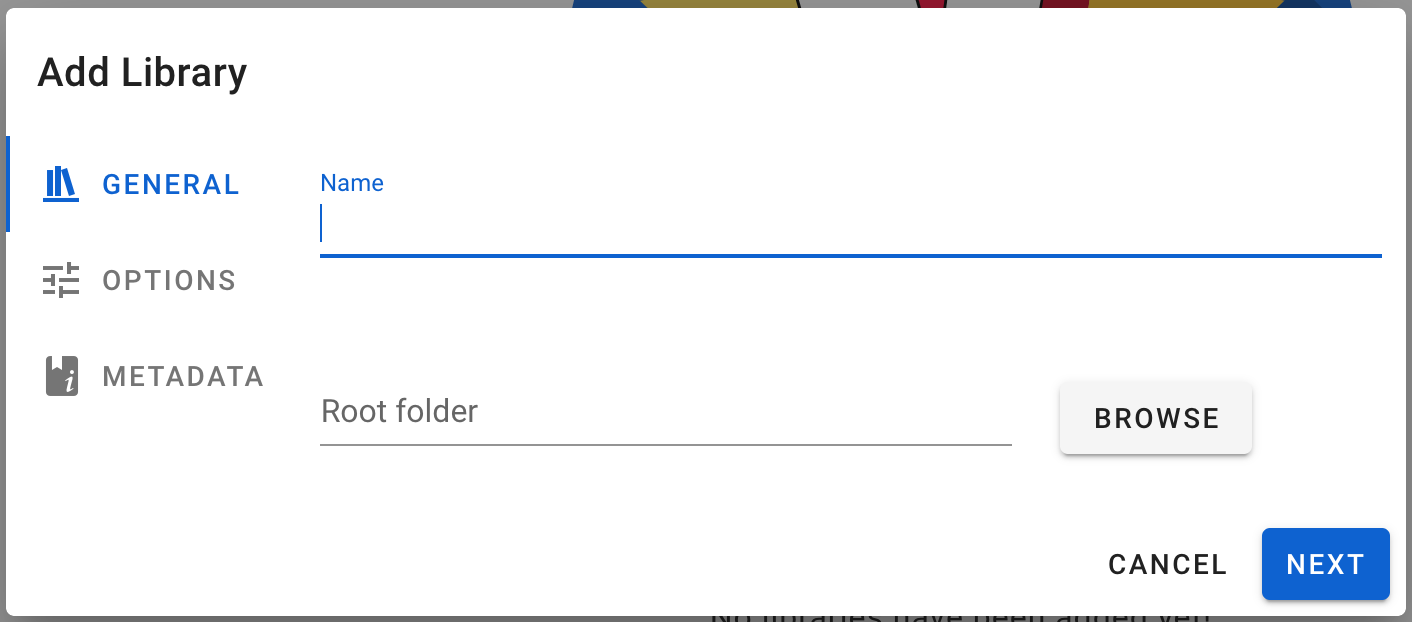
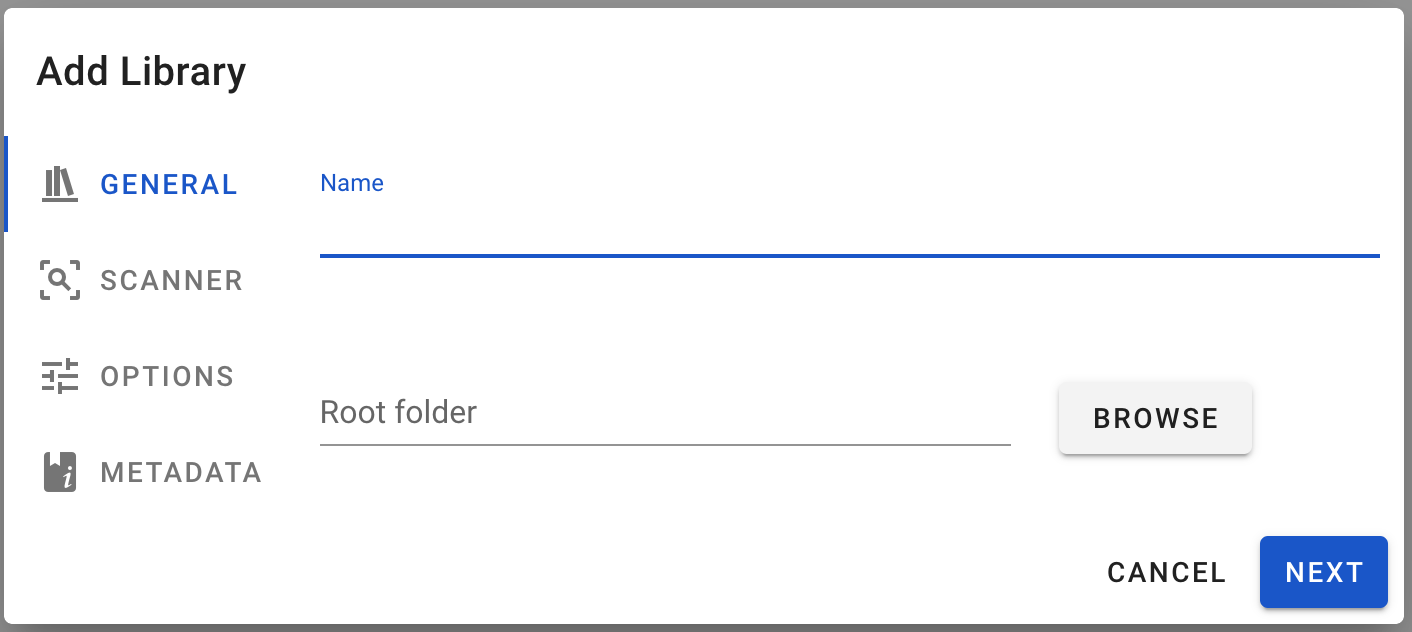
docs: library scanner options

diff --git a/docs/guides/libraries.md b/docs/guides/libraries.md
@@ -18,9 +18,9 @@ From the web interface:
 
 You can also specify extra options.
 
-<img src="/assets/media/guides/libraries/library-add-options.png" style={{maxHeight: '600px'}} alt="Add Library Dialog Options"/>
+### Scanner
 
-### Scanner options
+<img src="/assets/media/guides/libraries/library-add-scanner.png" style={{maxHeight: '400px'}} alt="Add Library Dialog Scanner"/>
 
 #### Empty trash automatically after every scan
 
@@ -30,25 +30,54 @@ See [Emptying library trash](/guides/trash.md#automatically-empty-trash).
 
 This will force the last modified time of a directory as the maximum from its own last modified time and the last modified time from all the books inside the directory. This should be used only if your filesystem does not update the last modified time of a directory when files inside it are modified (Google Drive for instance).
 
+#### Scan on startup
+
+If enabled, the library will be scanner when Komga starts.
+
+#### Scan interval
+
+Choose to scan all of your libraries on a time-based interval. Choose the interval to use from the dropdown. Available frequencies:
+
+- disabled
+- hourly
+- every 6 hours
+- every 12 hours
+- daily
+- weekly
+
+The scan interval is based on when Komga started, or when you changed that setting for the library. For instance, if you have it set to “every 6 hours” and you start your server at 12:35, then a scan will be started around 18:35.
+
 #### One-Shots directory
 
 See [One-Shots](/guides/oneshots.md).
 
-### Analysis
+#### Scan for these file types
 
-#### Compute hash for files
+This will configure the scanner to only look for files with specific file extensions. Available types:
+
+- Comic Book archives: `cbz`, `zip`, `cbr`, `rar`
+- PDF: `pdf`
+- Epub: `epub`
+
+### Options
+
+<img src="/assets/media/guides/libraries/library-add-options.png" style={{maxHeight: '500px'}} alt="Add Library Dialog Options"/>
+
+#### Analysis
+
+##### Compute hash for files
 
 Komga will compute a filehash for your files. This is required for the "restore from trash bin" functionality to work, and to detect duplicate files.
 
 This can consume lots of resources on large libraries or slow hardware.
 
-#### Compute hash for pages
+##### Compute hash for pages
 
 Komga will compute a filehash for the first and last 3 pages in each book (`cbz` only). Those are used to detect duplicate pages.
 
 This can consume lots of resources on large libraries or slow hardware.
 
-#### Analyze page dimensions
+##### Analyze page dimensions
 
 Komga will retrieve each page's dimensions (width and height). This is useful for:
 - properly displaying landscape pages in the web reader, when using double pages
@@ -56,21 +85,21 @@ Komga will retrieve each page's dimensions (width and height). This is useful fo
 
 This can consume lots of resources on large libraries or slow hardware.
 
-### File management
+#### File management
 
-#### Automatically repair incorrect file extensions
+##### Automatically repair incorrect file extensions
 
 Files with an incorrect extension will be automatically renamed in the background. For example a `zip` file with a `.cbr` extension will be renamed to `.cbz`.
 
-#### Automatically convert to CBZ
+##### Automatically convert to CBZ
 
 Books in `rar`/`cbr` format (RAR4 only) will be converted to `cbz` automatically in the background. The `zip` files are created with the `DEFLATE` method without compression.
 
-### Series cover
+#### Series cover
 
 Choose which book cover is used for the series.
 
-### Metadata options
+### Metadata
 
 <img src="/assets/media/guides/libraries/library-add-metadata.png" style={{maxHeight: '600px'}} alt="Add Library Dialog Metadata"/>
 

diff --git a/docs/installation/configuration.md b/docs/installation/configuration.md
@@ -51,20 +51,13 @@ Base URL, useful if you need to reverse proxy with a subfolder.
 
 Defaults to `/`.
 
-#### KOMGA_LIBRARIES_SCAN_CRON / komga.libraries-scan-cron: `<cron>`
+#### ~~KOMGA_LIBRARIES_SCAN_CRON / komga.libraries-scan-cron: `<cron>`~~
 
-A [Spring cron expression](https://docs.spring.io/spring/docs/current/javadoc-api/org/springframework/scheduling/support/CronSequenceGenerator.html) for libraries periodic scans.
-For example `0 0 * * * ?` will rescan every hour. `0 */15 * * * ?` will rescan every 15 minutes.
+This has been moved to [Library options: scan interval](/guides/libraries.md#scan-interval).
 
-To disable the periodic scan, set the value to `-`.
+#### ~~KOMGA_LIBRARIES_SCAN_STARTUP / komga.libraries-scan-startup: `<true/false>`~~
 
-Defaults to `0 0 */8 * * ?` (every 8 hours).
-
-#### KOMGA_LIBRARIES_SCAN_STARTUP / komga.libraries-scan-startup: `<true/false>`
-
-A boolean indicating if Komga should scan your libraries at startup.
-
-Defaults to `false`.
+This has been moved to [Library options: scan on startup](/guides/libraries.md#scan-on-startup).
 
 #### KOMGA_LIBRARIES_SCAN_DIRECTORY_EXCLUSIONS / komga.libraries-scan-directory-exclusions: `<exclusions>`
 
@@ -117,10 +110,6 @@ Defaults to `true`.
 A boolean indicating if Komga should delete empty read lists after a scan.
 
 Defaults to `true`.
-
-#### ~~KOMGA_FILE_HASHING / komga.file-hashing: `<true/false>`~~
-
-This has been moved to [Library options](/guides/libraries.md#compute-hash-for-files).
 
 #### KOMGA_OAUTH2_ACCOUNT_CREATION / komga.oauth2-account-creation: `<true/false>`
 
@@ -180,9 +169,6 @@ Here is a sample `application.yml` file in case you need to customize it. Keep o
 # Lines starting with # are comments
 # Make sure indentation is correct (2 spaces at every indentation level), yaml is very sensitive!
 komga:
-  libraries-scan-cron: "0 0 */8 * * ?"  # periodic scan every 8 hours
-  libraries-scan-cron: "-"              # disable periodic scan
-  libraries-scan-startup: false         # scan libraries at startup
   libraries-scan-directory-exclusions:  # patterns to exclude directories from the scan
     - "#recycle" # synology NAS recycle bin
     - "@eaDir"   # synology NAS index/metadata folders
